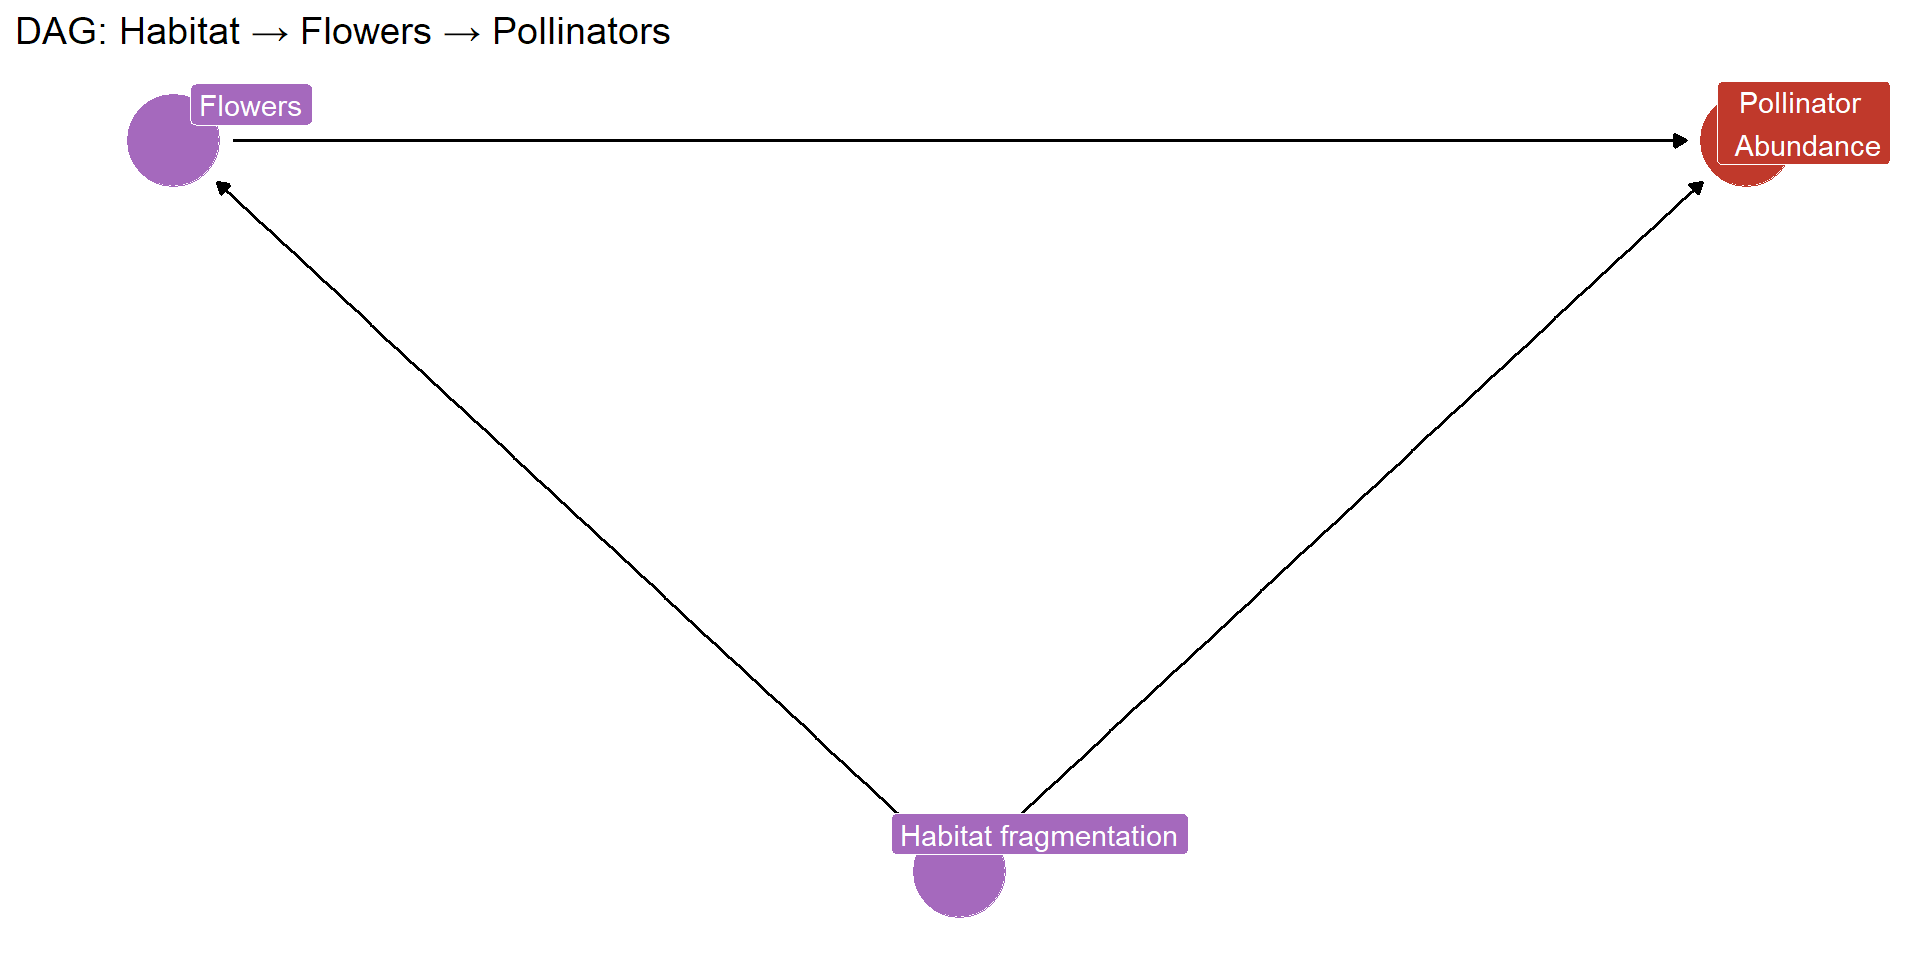
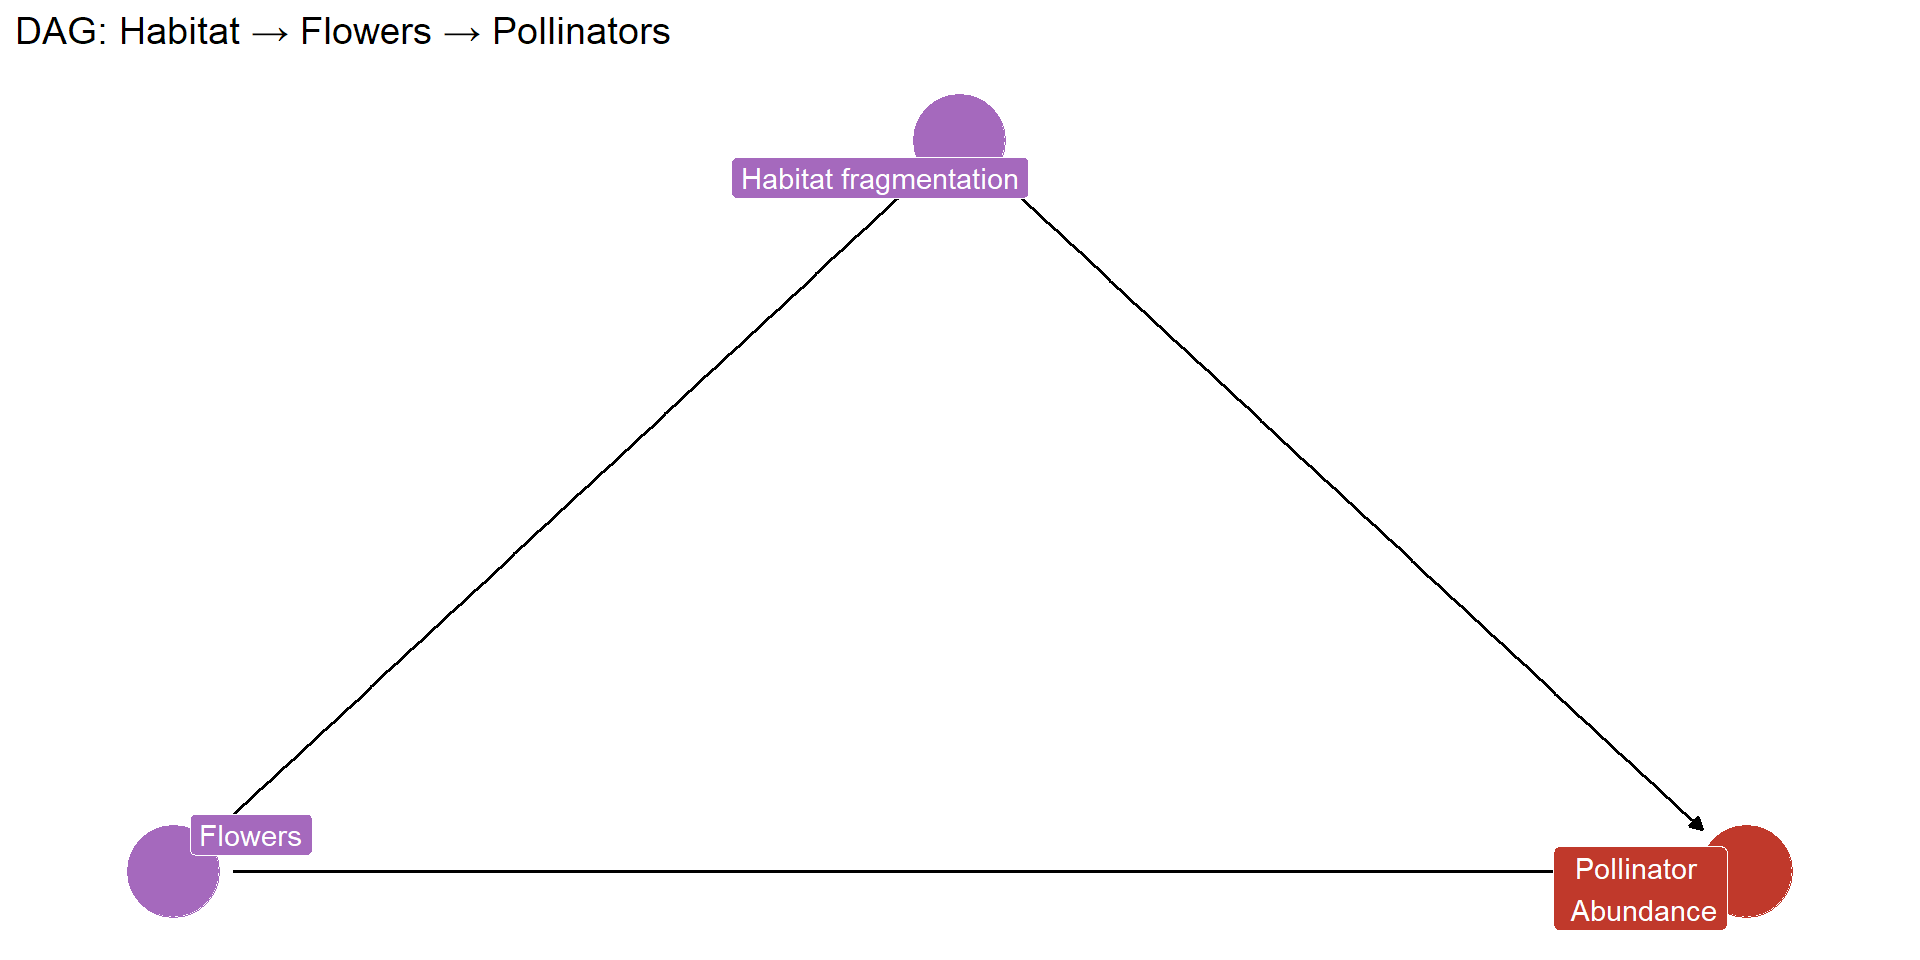
changing the too long R codes

diff --git a/Presentations/Intro_R.html b/Presentations/Intro_R.html
@@ -765,7 +765,7 @@ Blandine Lyonnard
 </div>
 <div class="cell">
 <div class="sourceCode cell-code" id="cb5"><pre class="sourceCode numberSource r number-lines code-with-copy"><code class="sourceCode r"><span id="cb5-1"><a href=""></a><span class="co"># R basic function</span></span>
-<span id="cb5-2"><a href=""></a>iris <span class="ot">&lt;-</span><span class="fu">read.csv</span>(<span class="st">"Data/iris.csv"</span>)</span></code><button title="Copy to Clipboard" class="code-copy-button"><i class="bi"></i></button></pre></div>
+<span id="cb5-2"><a href=""></a>iris <span class="ot">&lt;-</span> <span class="fu">read.csv</span>(<span class="st">"Data/iris.csv"</span>)</span></code><button title="Copy to Clipboard" class="code-copy-button"><i class="bi"></i></button></pre></div>
 </div>
 </section>
 <section id="exploring-the-data" class="slide level2">
@@ -868,23 +868,27 @@ Blandine Lyonnard
 <section id="filter---subset-rows" class="slide level2">
 <h2>Filter - subset rows</h2>
 <div class="cell">
-<div class="sourceCode cell-code" id="cb16"><pre class="sourceCode numberSource r number-lines code-with-copy"><code class="sourceCode r"><span id="cb16-1"><a href=""></a>iris_versicolor <span class="ot">&lt;-</span> iris <span class="sc">|&gt;</span>  <span class="fu">filter</span>( Species <span class="sc">==</span> <span class="st">"versicolor"</span>)</span>
-<span id="cb16-2"><a href=""></a></span>
-<span id="cb16-3"><a href=""></a>iris_pl<span class="ot">&lt;-</span>iris <span class="sc">|&gt;</span>  <span class="fu">filter</span>(Petal.Length <span class="sc">&gt;</span> <span class="dv">2</span>)</span></code><button title="Copy to Clipboard" class="code-copy-button"><i class="bi"></i></button></pre></div>
+<div class="sourceCode cell-code" id="cb16"><pre class="sourceCode numberSource r number-lines code-with-copy"><code class="sourceCode r"><span id="cb16-1"><a href=""></a>iris_versicolor <span class="ot">&lt;-</span> iris <span class="sc">|&gt;</span>  </span>
+<span id="cb16-2"><a href=""></a>  <span class="fu">filter</span>(Species <span class="sc">==</span> <span class="st">"versicolor"</span>)</span>
+<span id="cb16-3"><a href=""></a></span>
+<span id="cb16-4"><a href=""></a>iris_pl <span class="ot">&lt;-</span> iris <span class="sc">|&gt;</span>  </span>
+<span id="cb16-5"><a href=""></a>  <span class="fu">filter</span>(Petal.Length <span class="sc">&gt;</span> <span class="dv">2</span>)</span></code><button title="Copy to Clipboard" class="code-copy-button"><i class="bi"></i></button></pre></div>
 </div>
 </section>
 <section id="select---subset-columns" class="slide level2">
 <h2>Select - subset columns</h2>
 <div class="cell">
-<div class="sourceCode cell-code" id="cb17"><pre class="sourceCode numberSource r number-lines code-with-copy"><code class="sourceCode r"><span id="cb17-1"><a href=""></a>iris_subset<span class="ot">&lt;-</span>iris <span class="sc">|&gt;</span> <span class="fu">select</span>(Species, Petal.Width, Petal.Length)</span></code><button title="Copy to Clipboard" class="code-copy-button"><i class="bi"></i></button></pre></div>
+<div class="sourceCode cell-code" id="cb17"><pre class="sourceCode numberSource r number-lines code-with-copy"><code class="sourceCode r"><span id="cb17-1"><a href=""></a>iris_subset <span class="ot">&lt;-</span> iris <span class="sc">|&gt;</span> </span>
+<span id="cb17-2"><a href=""></a>  <span class="fu">select</span>(Species, Petal.Width, Petal.Length)</span></code><button title="Copy to Clipboard" class="code-copy-button"><i class="bi"></i></button></pre></div>
 </div>
 </section>
 <section id="mutate" class="slide level2">
 <h2>Mutate</h2>
 <div class="cell">
-<div class="sourceCode cell-code" id="cb18"><pre class="sourceCode numberSource r number-lines code-with-copy"><code class="sourceCode r"><span id="cb18-1"><a href=""></a>iris_log <span class="ot">&lt;-</span>iris <span class="sc">|&gt;</span> <span class="fu">mutate</span>(<span class="at">log.Sepal.length =</span> <span class="fu">log</span>(Sepal.Length))</span>
-<span id="cb18-2"><a href=""></a></span>
-<span id="cb18-3"><a href=""></a><span class="fu">head</span>(iris_log)</span></code><button title="Copy to Clipboard" class="code-copy-button"><i class="bi"></i></button></pre></div>
+<div class="sourceCode cell-code" id="cb18"><pre class="sourceCode numberSource r number-lines code-with-copy"><code class="sourceCode r"><span id="cb18-1"><a href=""></a>iris_log <span class="ot">&lt;-</span> iris <span class="sc">|&gt;</span> </span>
+<span id="cb18-2"><a href=""></a>  <span class="fu">mutate</span>(<span class="at">log.Sepal.length =</span> <span class="fu">log</span>(Sepal.Length))</span>
+<span id="cb18-3"><a href=""></a></span>
+<span id="cb18-4"><a href=""></a><span class="fu">head</span>(iris_log)</span></code><button title="Copy to Clipboard" class="code-copy-button"><i class="bi"></i></button></pre></div>
 <div class="cell-output cell-output-stdout">
 <pre><code># A tibble: 6 × 7
    ...1 Sepal.Length Sepal.Width Petal.Length Petal.Width Species
@@ -924,7 +928,7 @@ Blandine Lyonnard
 <h2>Plotting Iris</h2>
 <p>Lets say we want to plot the relationship between petal length and petal width for each species.</p>
 <div class="cell">
-<div class="sourceCode cell-code" id="cb20"><pre class="sourceCode numberSource r number-lines code-with-copy"><code class="sourceCode r"><span id="cb20-1"><a href=""></a>p<span class="ot">&lt;-</span>iris <span class="sc">%&gt;%</span> </span>
+<div class="sourceCode cell-code" id="cb20"><pre class="sourceCode numberSource r number-lines code-with-copy"><code class="sourceCode r"><span id="cb20-1"><a href=""></a>p <span class="ot">&lt;-</span> iris <span class="sc">%&gt;%</span> </span>
 <span id="cb20-2"><a href=""></a>  <span class="fu">ggplot</span>(<span class="fu">aes</span>(</span>
 <span id="cb20-3"><a href=""></a>    <span class="at">x =</span> Petal.Length,</span>
 <span id="cb20-4"><a href=""></a>    <span class="at">y =</span> Petal.Width,</span>
